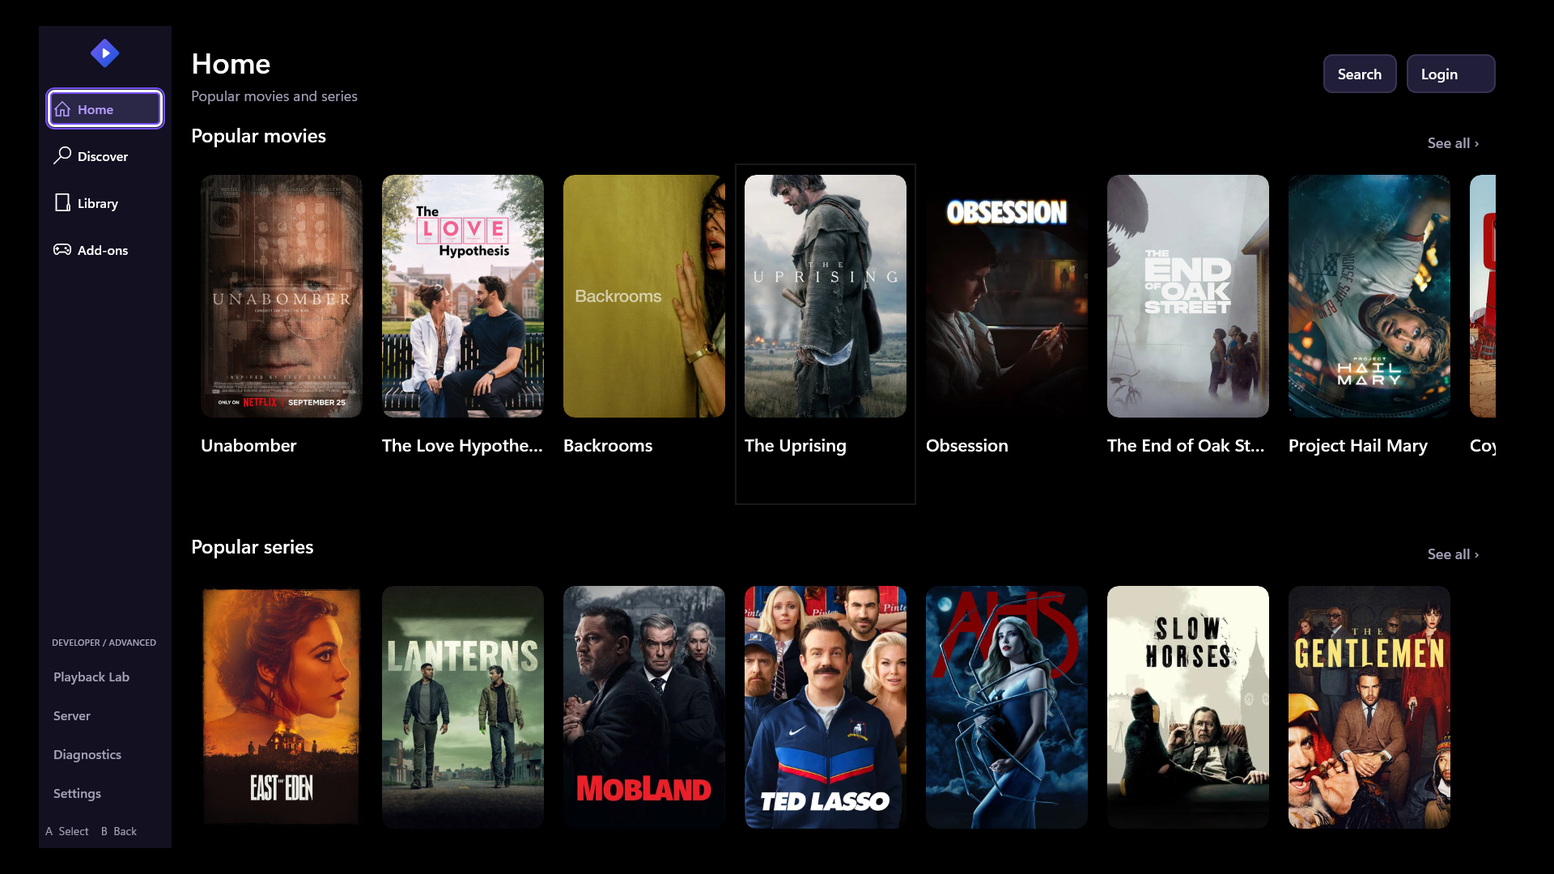
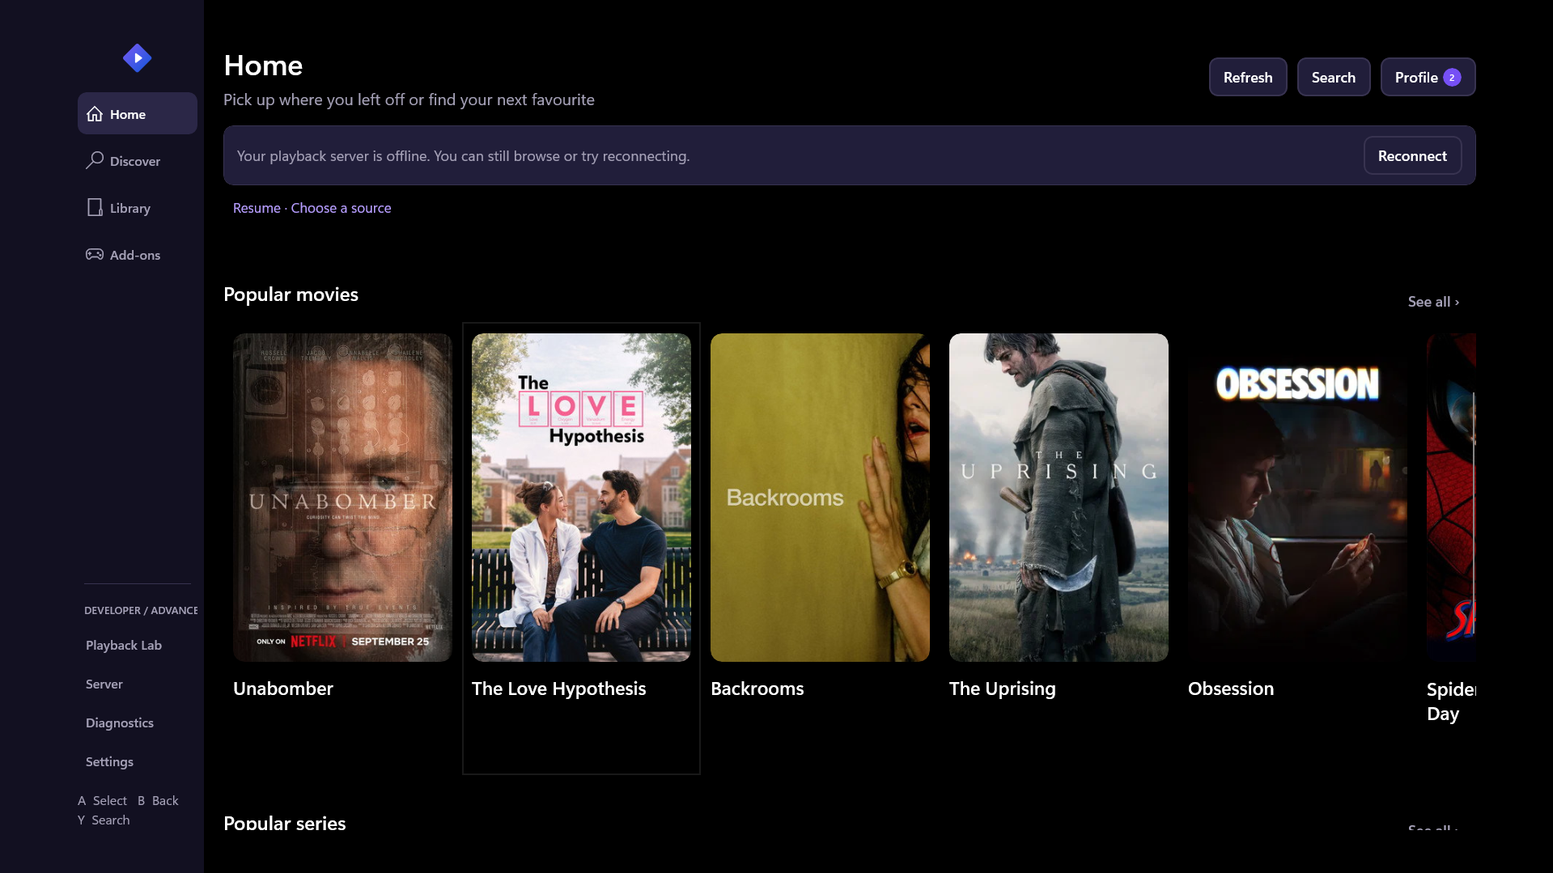
ui changes

diff --git a/src/StremioXboxPrototype/MainPage.xaml b/src/StremioXboxPrototype/MainPage.xaml
@@ -55,13 +55,9 @@
                     </StackPanel>
                     <StackPanel Grid.Row="3" Spacing="4" Margin="0,32,0,16">
                         <Border Height="1" Background="{StaticResource SubtleBorderBrush}" Margin="8,0,8,18" />
-                        <TextBlock Text="DEVELOPER / ADVANCED" FontSize="13" FontWeight="SemiBold" Margin="8,0,0,8" Foreground="{StaticResource MutedTextBrush}" />
-                        <Button x:Name="PlaybackLabButton" Content="Playback Lab" Style="{StaticResource AdvancedNavButtonStyle}" Click="ShowPlaybackLab" />
-                        <Button x:Name="ServerButton" Content="Server" Style="{StaticResource AdvancedNavButtonStyle}" Click="ShowServer" />
-                        <Button x:Name="DiagnosticsButton" Content="Diagnostics" Style="{StaticResource AdvancedNavButtonStyle}" Click="ShowDiagnostics" />
-                        <Button x:Name="SettingsButton" Content="Settings" Style="{StaticResource AdvancedNavButtonStyle}" Click="ShowSettings" />
+                        <Button x:Name="SettingsButton" Content="Settings" Style="{StaticResource NavButtonStyle}" Click="ShowSettings" />
                     </StackPanel>
-                    <TextBlock Grid.Row="4" Text="A  Select   B  Back&#x0a;Y  Search" FontSize="16" LineHeight="24" TextWrapping="Wrap" Foreground="{StaticResource MutedTextBrush}" />
+                    <TextBlock Grid.Row="4" Text="A  Select&#x0a;B  Back&#x0a;Y  Search" FontSize="18" LineHeight="28" TextWrapping="Wrap" Foreground="{StaticResource MutedTextBrush}" />
                 </Grid>
             </ScrollViewer>
         </Border>
@@ -96,20 +92,22 @@
             <Grid Grid.Row="1">
                 <Grid x:Name="HomePanel">
                     <Grid.RowDefinitions><RowDefinition Height="Auto" /><RowDefinition Height="*" /></Grid.RowDefinitions>
-                    <Border x:Name="HomeConnectionNotice" Visibility="Collapsed" Style="{StaticResource SurfaceBorderStyle}" Padding="16,12" Margin="0,0,0,16">
+                    <Border x:Name="HomeConnectionNotice" Visibility="Collapsed" Style="{StaticResource SurfaceBorderStyle}" Padding="12,4" Margin="0,0,0,12">
                         <Grid>
                             <Grid.ColumnDefinitions><ColumnDefinition Width="*" /><ColumnDefinition Width="Auto" /></Grid.ColumnDefinitions>
-                            <TextBlock x:Name="HomeConnectionText" Text="Your playback server is offline. You can still browse or try reconnecting."
-                                       FontSize="18" TextWrapping="Wrap" VerticalAlignment="Center" Foreground="{StaticResource MutedTextBrush}" Margin="0,0,16,0" />
-                            <Button Grid.Column="1" Content="Reconnect" Style="{StaticResource HeaderButtonStyle}" Click="ReconnectServer" />
+                            <TextBlock x:Name="HomeConnectionText" Text="Playback server offline"
+                                       FontSize="20" TextWrapping="Wrap" VerticalAlignment="Center" Foreground="{StaticResource MutedTextBrush}" Margin="0,0,16,0" />
+                            <StackPanel Grid.Column="1" Orientation="Horizontal" Spacing="8">
+                                <Button Content="Details" Style="{StaticResource HeaderButtonStyle}" Click="ShowConnectionDetails" />
+                                <Button x:Name="HomeReconnectButton" Content="Reconnect" Style="{StaticResource HeaderButtonStyle}" Click="ReconnectServer" />
+                            </StackPanel>
                         </Grid>
                     </Border>
                     <Grid Grid.Row="1">
                         <ScrollViewer x:Name="HomeShelves" VerticalScrollBarVisibility="Auto" HorizontalScrollBarVisibility="Disabled" Visibility="Collapsed">
-                            <StackPanel Spacing="32">
+                            <StackPanel Spacing="20">
                                 <StackPanel x:Name="ContinueWatchingShelf" Visibility="Collapsed">
                                     <TextBlock Text="Continue Watching" Style="{StaticResource SectionTitleStyle}" />
-                                    <TextBlock Text="Pick up where you left off" FontSize="20" Foreground="{StaticResource MutedTextBrush}" Margin="0,-8,0,16" />
                                     <GridView x:Name="ContinueWatchingGrid" SizeChanged="ShelfSizeChanged" ContainerContentChanging="PosterContainerChanging"
                                               IsItemClickEnabled="True" ItemClick="OpenItem" SelectionMode="None"
                                               ItemsPanel="{StaticResource HorizontalItemsPanel}" ItemTemplate="{StaticResource PosterTemplate}"
@@ -313,6 +311,11 @@
                         <ToggleSwitch x:Name="PosterAnimationsToggle" Header="Animate focused posters" OnContent="3% focus zoom" OffContent="Border only" Toggled="PosterAnimationsChanged" FontSize="20" />
                         <TextBlock Text="Turn off zoom animations if you prefer less motion. The bright focus border remains visible." FontSize="20" TextWrapping="Wrap" Foreground="{StaticResource MutedTextBrush}" />
                         <Button Content="Manage Stremio account" Style="{StaticResource TvButtonStyle}" Click="ShowAccount" />
+                        <TextBlock Text="Advanced" Style="{StaticResource SectionTitleStyle}" Margin="0,12,0,0" />
+                        <TextBlock Text="Manage your playback server and troubleshooting tools." FontSize="20" TextWrapping="Wrap" Foreground="{StaticResource MutedTextBrush}" />
+                        <Button x:Name="ServerButton" Content="Playback server" Style="{StaticResource TvButtonStyle}" Click="ShowServer" />
+                        <Button x:Name="PlaybackLabButton" Content="Playback Lab" Style="{StaticResource TvButtonStyle}" Click="ShowPlaybackLab" />
+                        <Button x:Name="DiagnosticsButton" Content="Diagnostics" Style="{StaticResource TvButtonStyle}" Click="ShowDiagnostics" />
                     </StackPanel>
                 </ScrollViewer>
                 <Grid x:Name="DiagnosticsPanel" Visibility="Collapsed">

diff --git a/src/StremioXboxPrototype/App.xaml b/src/StremioXboxPrototype/App.xaml
@@ -12,7 +12,7 @@
         <SolidColorBrush x:Key="AccentBrush" Color="#7650F5" />
         <SolidColorBrush x:Key="AccentSoftBrush" Color="#2B2747" />
         <SolidColorBrush x:Key="AccentTextBrush" Color="#B69DFF" />
-        <SolidColorBrush x:Key="MutedTextBrush" Color="#A5A1B7" />
+        <SolidColorBrush x:Key="MutedTextBrush" Color="#C1BDD2" />
         <SolidColorBrush x:Key="SubtleBorderBrush" Color="#383350" />
 
         <Style TargetType="Page">
@@ -62,11 +62,11 @@
             <Setter Property="Background" Value="Transparent" />
             <Setter Property="Foreground" Value="{StaticResource MutedTextBrush}" />
             <Setter Property="BorderBrush" Value="Transparent" />
-            <Setter Property="Width" Value="148" />
+            <Setter Property="Width" Value="168" />
             <Setter Property="MinHeight" Value="52" />
             <Setter Property="Padding" Value="8,6" />
             <Setter Property="HorizontalContentAlignment" Value="Left" />
-            <Setter Property="FontSize" Value="16" />
+            <Setter Property="FontSize" Value="18" />
         </Style>
         <Style x:Key="SelectedNavButtonStyle" TargetType="Button" BasedOn="{StaticResource NavButtonStyle}">
             <Setter Property="Background" Value="{StaticResource AccentSoftBrush}" />
@@ -75,7 +75,7 @@
         </Style>
         <Style x:Key="AdvancedNavButtonStyle" TargetType="Button" BasedOn="{StaticResource NavButtonStyle}">
             <Setter Property="MinHeight" Value="44" />
-            <Setter Property="FontSize" Value="16" />
+            <Setter Property="FontSize" Value="18" />
             <Setter Property="Foreground" Value="{StaticResource MutedTextBrush}" />
         </Style>
         <Style x:Key="SelectedAdvancedNavButtonStyle" TargetType="Button" BasedOn="{StaticResource AdvancedNavButtonStyle}">
@@ -100,7 +100,7 @@
         <Style x:Key="SectionTitleStyle" TargetType="TextBlock">
             <Setter Property="FontSize" Value="24" />
             <Setter Property="FontWeight" Value="SemiBold" />
-            <Setter Property="Margin" Value="0,0,0,18" />
+            <Setter Property="Margin" Value="0,0,0,12" />
         </Style>
         <Style x:Key="SurfaceBorderStyle" TargetType="Border">
             <Setter Property="Background" Value="{StaticResource PanelBrush}" />

diff --git a/src/StremioXboxPrototype/Controls/PosterCard.xaml b/src/StremioXboxPrototype/Controls/PosterCard.xaml
@@ -2,8 +2,8 @@
     x:Class="StremioXboxPrototype.Controls.PosterCard"
     xmlns="http://schemas.microsoft.com/winfx/2006/xaml/presentation"
     xmlns:x="http://schemas.microsoft.com/winfx/2006/xaml"
-    IsTabStop="False" Width="240" Height="446">
-    <Grid Padding="12,14,12,0">
+    IsTabStop="False" Width="240" Height="450">
+    <Grid Padding="12,14,12,10">
         <Grid.RowDefinitions>
             <RowDefinition x:Name="PosterRow" Height="324" />
             <RowDefinition Height="Auto" />
@@ -18,14 +18,15 @@
             </Border>
             <ProgressBar x:Name="WatchProgressBar" Visibility="Collapsed" VerticalAlignment="Bottom" Margin="10,0,10,12"
                          Height="8" Minimum="0" Maximum="100" Foreground="{StaticResource AccentTextBrush}" Background="#CC100E20" />
-            <Border x:Name="FocusOutline" CornerRadius="14" BorderBrush="White" BorderThickness="4" Opacity="0" />
         </Grid>
-        <TextBlock x:Name="TitleText" Grid.Row="1" FontSize="23" FontWeight="SemiBold" Margin="0,16,0,6"
+        <TextBlock x:Name="TitleText" Grid.Row="1" FontSize="23" FontWeight="SemiBold" Margin="0,12,0,6" MinHeight="62"
                    TextWrapping="Wrap" TextTrimming="CharacterEllipsis" MaxLines="2" />
-        <StackPanel x:Name="FocusDetails" Grid.Row="2" Spacing="3" Opacity="0">
-            <TextBlock x:Name="MetadataText" FontSize="18" Foreground="{StaticResource MutedTextBrush}"
+        <StackPanel x:Name="FocusDetails" Grid.Row="2" Spacing="3" Visibility="Collapsed">
+            <TextBlock x:Name="MetadataText" FontSize="20" Foreground="{StaticResource MutedTextBrush}"
                        TextTrimming="CharacterEllipsis" MaxLines="1" />
-            <TextBlock x:Name="TypeText" FontSize="17" Foreground="{StaticResource AccentTextBrush}" />
+            <TextBlock x:Name="TypeText" FontSize="18" TextTrimming="CharacterEllipsis" Foreground="{StaticResource AccentTextBrush}" />
         </StackPanel>
+        <Border x:Name="FocusOutline" Grid.RowSpan="3" Margin="-8,-10,-8,-6" CornerRadius="18"
+                BorderBrush="{StaticResource AccentTextBrush}" BorderThickness="4" Opacity="0" IsHitTestVisible="False" />
     </Grid>
 </UserControl>

diff --git a/src/StremioXboxPrototype/MainPage.xaml.cs b/src/StremioXboxPrototype/MainPage.xaml.cs
@@ -353,6 +353,8 @@ public sealed partial class MainPage : Page
         if (args.Phase == 0) args.RegisterUpdateCallback(PosterContainerChanging);
         else if (sender == MovieGrid || sender == SeriesGrid || sender == ContinueWatchingGrid)
             FindPosterCard(container)?.SetCardWidth(TvLayout.GetShelfCardWidth(sender.ActualWidth));
+        if (args.Phase > 0)
+            FindPosterCard(container)?.SetFocused(container.FocusState != FocusState.Unfocused);
     }
 
     private void ShelfSizeChanged(object sender, SizeChangedEventArgs e)
@@ -573,7 +575,8 @@ public sealed partial class MainPage : Page
         {
             ServerConnectionState.Text = "Server: disconnected";
             StreamingServiceStatus.Text = "Enter your server address to connect.";
-            HomeConnectionText.Text = "Connect a playback server when you're ready to watch. You can still browse.";
+            HomeConnectionText.Text = "Playback server not connected";
+            HomeReconnectButton.Content = "Connect";
             HomeConnectionNotice.Visibility = Visibility.Visible;
             return;
         }
@@ -588,6 +591,8 @@ public sealed partial class MainPage : Page
         var request = new CancellationTokenSource();
         _serverRequest = request;
         ConnectServerButton.IsEnabled = false;
+        HomeReconnectButton.IsEnabled = false;
+        HomeConnectionText.Text = "Connecting to playback server…";
         ServerConnectionState.Text = "Server: checking…";
         StreamingServiceStatus.Text = $"Connecting to {uri.Host}:{uri.Port}…";
         try
@@ -607,7 +612,8 @@ public sealed partial class MainPage : Page
         catch (Exception exception)
         {
             ServerConnectionState.Text = "Server: unavailable";
-            HomeConnectionText.Text = "Your playback server is offline. You can still browse or try reconnecting.";
+            HomeConnectionText.Text = "Playback server offline";
+            HomeReconnectButton.Content = "Reconnect";
             HomeConnectionNotice.Visibility = Visibility.Visible;
             StreamingServiceStatus.Text = $"Cannot reach {uri.Host}:{uri.Port}. The hosted server may still be waking up; wait a minute and try again. " + exception.Message;
             DiagnosticsService.Current.Error("streaming-service", exception.Message);
@@ -618,6 +624,7 @@ public sealed partial class MainPage : Page
             {
                 _serverRequest = null;
                 ConnectServerButton.IsEnabled = true;
+                HomeReconnectButton.IsEnabled = true;
             }
             request.Dispose();
         }
@@ -629,7 +636,8 @@ public sealed partial class MainPage : Page
         PrototypeSettings.ClearStreamingServiceUrl();
         StreamingServiceUrlBox.Text = "";
         ServerConnectionState.Text = "Server: disconnected";
-        HomeConnectionText.Text = "Connect a playback server when you're ready to watch. You can still browse.";
+        HomeConnectionText.Text = "Playback server not connected";
+        HomeReconnectButton.Content = "Connect";
         HomeConnectionNotice.Visibility = Visibility.Visible;
         StreamingServiceStatus.Text = "Disconnected. Enter a server address to reconnect.";
     }
@@ -638,13 +646,20 @@ public sealed partial class MainPage : Page
     {
         SetSelectedNavigation(ServerButton);
         ShowPanel(ServerPanel, "Stremio server", "Connect your TV to your streaming server");
+        StreamingServiceUrlBox.Focus(FocusState.Programmatic);
+    }
+
+    private async void ShowConnectionDetails(object sender, RoutedEventArgs e)
+    {
+        await ShowErrorAsync("Playback server", PrototypeSettings.GetStreamingServiceUrl() is null
+            ? "Connect a playback server when you're ready to watch. You can still browse movies, series, and your library. Choose Connect to enter your server address."
+            : "Your playback server is offline. You can still browse movies, series, and your library. Check that your server is running, then choose Reconnect.");
     }
 
     private async void ReconnectServer(object sender, RoutedEventArgs e)
     {
         var uri = PrototypeSettings.GetStreamingServiceUrl();
         if (uri is null) { ShowServer(sender, e); return; }
-        HomeConnectionText.Text = "Reconnecting to your playback server…";
         await ConnectServerAsync(uri, save: false);
     }
 
@@ -846,6 +861,7 @@ public sealed partial class MainPage : Page
     {
         SetSelectedNavigation(PlaybackLabButton);
         ShowPanel(PlaybackLabPanel, "Playback lab", "Test a direct stream through the native Xbox media pipeline");
+        DirectUrlBox.Focus(FocusState.Programmatic);
     }
 
     private void ShowAddons(object sender, RoutedEventArgs e)
@@ -897,30 +913,31 @@ public sealed partial class MainPage : Page
     {
         SetSelectedNavigation(DiagnosticsButton);
         ShowPanel(DiagnosticsPanel, "Diagnostics", "Bounded in-memory event log");
+        SettingsButton.Focus(FocusState.Programmatic);
         UpdateMemory();
         _memoryTimer.Start();
     }
 
     private void SetSelectedNavigation(Button selected)
     {
-        // Main and advanced items use separate visual styles, but both groups
-        // receive the same unmistakable selected state for controller users.
-        foreach (var button in new[]
-                 {
-                     HomeButton, DiscoverButton, LibraryNavButton, PlaybackLabButton,
-                     AddonsButton, ServerButton, DiagnosticsButton, SettingsButton
-                 })
+        // Advanced tools belong to Settings, which stays selected in the rail.
+        if (selected == PlaybackLabButton || selected == ServerButton || selected == DiagnosticsButton)
+            selected = SettingsButton;
+        foreach (var button in new[] { HomeButton, DiscoverButton, LibraryNavButton, AddonsButton, SettingsButton })
         {
-            var advanced = button == PlaybackLabButton || button == ServerButton ||
-                           button == DiagnosticsButton || button == SettingsButton;
             button.Style = (Style)Application.Current.Resources[ReferenceEquals(button, selected)
-                ? (advanced ? "SelectedAdvancedNavButtonStyle" : "SelectedNavButtonStyle")
-                : (advanced ? "AdvancedNavButtonStyle" : "NavButtonStyle")];
+                ? "SelectedNavButtonStyle" : "NavButtonStyle"];
         }
     }
 
     private void ShowPanel(UIElement panel, string title, string subtitle)
     {
+        var focusedElement = FocusManager.GetFocusedElement() as DependencyObject;
+        var focusWasInContent = false;
+        for (var ancestor = focusedElement; ancestor is not null; ancestor = VisualTreeHelper.GetParent(ancestor))
+        {
+            if (ReferenceEquals(ancestor, ContentSurface)) { focusWasInContent = true; break; }
+        }
         // Requests, animations, speech, and diagnostic polling belong to the
         // visible panel. Stop them before transferring focus to another panel.
         _request?.Cancel();
@@ -945,6 +962,8 @@ public sealed partial class MainPage : Page
         PageSubtitle.Text = subtitle;
         HeaderSearchButton.Visibility = ReferenceEquals(panel, DiscoverPanel) ? Visibility.Collapsed : Visibility.Visible;
         HomeRefreshButton.Visibility = ReferenceEquals(panel, HomePanel) ? Visibility.Visible : Visibility.Collapsed;
+        if (focusWasInContent && FocusManager.FindFirstFocusableElement(panel) is Control firstControl)
+            firstControl.Focus(FocusState.Programmatic);
     }
 
     private void BeginRequest(string status)
@@ -977,7 +996,16 @@ public sealed partial class MainPage : Page
             KeyboardButton.Focus(FocusState.Programmatic);
             return;
         }
-        if (Frame.CanGoBack)
+        if (ServerPanel.Visibility == Visibility.Visible || PlaybackLabPanel.Visibility == Visibility.Visible ||
+            DiagnosticsPanel.Visibility == Visibility.Visible)
+        {
+            var returnTarget = ServerPanel.Visibility == Visibility.Visible ? ServerButton :
+                PlaybackLabPanel.Visibility == Visibility.Visible ? PlaybackLabButton : DiagnosticsButton;
+            e.Handled = true;
+            ShowSettings(this, new RoutedEventArgs());
+            returnTarget.Focus(FocusState.Programmatic);
+        }
+        else if (Frame.CanGoBack)
         {
             e.Handled = true;
             Frame.GoBack();

diff --git a/src/StremioXboxPrototype/Controls/PosterCard.xaml.cs b/src/StremioXboxPrototype/Controls/PosterCard.xaml.cs
@@ -30,7 +30,6 @@ public sealed partial class PosterCard : UserControl
     private static void ItemChanged(DependencyObject sender, DependencyPropertyChangedEventArgs args)
     {
         var card = (PosterCard)sender;
-        card.SetFocused(false);
         var item = card.Item;
         card.TitleText.Text = item?.Name ?? "";
         card.TypeText.Text = item?.Type == "series" ? "Series · Open for streams" : "Movie · Open for streams";
@@ -53,13 +52,15 @@ public sealed partial class PosterCard : UserControl
         card.SetDetails(item);
         card.WatchProgressBar.Visibility = item?.WatchProgress is null ? Visibility.Collapsed : Visibility.Visible;
         card.WatchProgressBar.Value = item?.WatchProgress?.Percent ?? 0;
+        card.SetFocused(false);
         Windows.UI.Xaml.Automation.AutomationProperties.SetName(card, item?.Name ?? "Title");
     }
 
     public void SetDetails(MetaItem? details)
     {
         MetadataText.Text = Item?.WatchProgress?.RemainingText ?? details?.CardMetadata ?? "Details unavailable";
-        if (Item?.WatchProgress is not null) TypeText.Text = "Resume · Choose a source";
+        TypeText.Text = Item?.WatchProgress is not null ? "Continue watching" :
+            Item?.Type == "series" ? "Series · Open for streams" : "Movie · Open for streams";
     }
 
     public void SetCardWidth(double width)
@@ -69,7 +70,15 @@ public sealed partial class PosterCard : UserControl
         // Posters use a consistent 2:3 ratio at every responsive shelf width.
         PosterFrame.Height = (width - 24) * 1.5;
         PosterRow.Height = new GridLength(PosterFrame.Height);
-        Height = PosterFrame.Height + 154;
+        UpdateCardHeight();
+    }
+
+    private void UpdateCardHeight()
+    {
+        // Reserve two title lines; focused titles can grow to reveal their full
+        // name without clipping or moving into the following shelf.
+        TitleText.Measure(new Windows.Foundation.Size(Math.Max(1, Width - 24), double.PositiveInfinity));
+        Height = PosterFrame.Height + Math.Max(62, TitleText.DesiredSize.Height) + 82;
     }
 
     public void SetFocused(bool focused)
@@ -79,10 +88,13 @@ public sealed partial class PosterCard : UserControl
         IsPosterFocused = focused;
         FocusOutline.Opacity = focused ? 1 : 0;
         FocusGlow.Opacity = focused ? 1 : 0;
-        FocusDetails.Opacity = focused || Item?.WatchProgress is not null ? 1 : 0;
+        FocusDetails.Visibility = focused || Item?.WatchProgress is not null ? Visibility.Visible : Visibility.Collapsed;
+        TitleText.MaxLines = focused ? 0 : 2;
+        TitleText.TextTrimming = focused ? TextTrimming.None : TextTrimming.CharacterEllipsis;
+        UpdateCardHeight();
         var from = PosterScale.ScaleX;
         _animation?.Stop();
-        // Keep the zoom inside the card gutter; the white outline supplies the
+        // Keep the zoom inside the card gutter; the purple outline supplies the
         // main focus cue and remains visible when animation is disabled.
         var to = focused && PrototypeSettings.GetPosterAnimationsEnabled() ? 1.03 : 1;
         if (!PrototypeSettings.GetPosterAnimationsEnabled())

diff --git a/src/StremioXboxPrototype/Services/TvLayout.cs b/src/StremioXboxPrototype/Services/TvLayout.cs
@@ -13,7 +13,7 @@ public static class TvLayout
         var horizontalInset = Math.Max(width * 0.05, 16);
         var verticalInset = Math.Max(height * 0.05, 12);
         var gap = width < 1000 ? 16 : 24;
-        var sidebarWidth = 148 + 8 + horizontalInset;
+        var sidebarWidth = 168 + 8 + horizontalInset;
         var contentWidth = Math.Max(1, width - sidebarWidth - horizontalInset - gap);
         return new TvViewportLayout(horizontalInset, verticalInset, gap, sidebarWidth,
             contentWidth < 760, width >= 1000);
@@ -24,7 +24,7 @@ public static class TvLayout
         if (viewport <= 0 || !double.IsFinite(viewport)) return 240;
         // Prioritize legible posters and titles at sofa distance. A partial next
         // card makes horizontal scrolling apparent without shrinking the shelf.
-        var wholeCards = Math.Max(1, (int)Math.Floor(viewport / 280));
+        var wholeCards = Math.Max(1, (int)Math.Floor(viewport / 240 - 0.25));
         return viewport / (wholeCards + 0.25);
     }
 }

diff --git a/tests/WatchHistory.Tests/Program.cs b/tests/WatchHistory.Tests/Program.cs
@@ -53,7 +53,7 @@ foreach (var (width, height) in new[]
     Check(Math.Abs(layout.HorizontalInset - width * 0.05) < 0.001 &&
         Math.Abs(layout.VerticalInset - height * 0.05) < 0.001,
         $"Controls retain five-percent safe spacing at {width} x {height}");
-    Check(Math.Abs(layout.SidebarWidth - layout.HorizontalInset - 8 - 148) < 0.001,
+    Check(Math.Abs(layout.SidebarWidth - layout.HorizontalInset - 8 - 168) < 0.001,
         $"Navigation fits inside sidebar at {width} x {height}");
 }
 var xboxLayout = TvLayout.GetViewportLayout(960, 540);

diff --git a/docs/validation.md b/docs/validation.md
@@ -24,9 +24,9 @@ Record the OS build, app commit, network, display mode, and exact media URL or a
 | Search usable with platform text entry | 100% |  |  |
 | Controller keyboard supports letters, space, delete, clear, and Done | 100% |  |  |
 | Voice search handles success, cancellation, missing microphone, and denied permission | Friendly recovery |  |  |
-| Focused posters show border, 6% zoom, and available metadata without clipping | 100% |  |  |
+| Focused posters show purple border, 3% zoom, full title, and available metadata without clipping | 100% |  |  |
 | Reduced-motion setting survives restart and preserves focus border | 100% |  |  |
-| Safe margins and lower Advanced navigation remain reachable | 100% |  |  |
+| Safe margins, Settings advanced tools, and Back focus restoration remain reachable | 100% |  |  |
 | Shelves show a deliberate next-card cue; horizontal focus reveals the whole selected card | Approximately 20% cue |  |  |
 | Home loading skeletons, empty results, and retry state | Friendly recovery |  |  |
 | Offline server reconnect notice preserves public catalog browsing | 100% |  |  |
